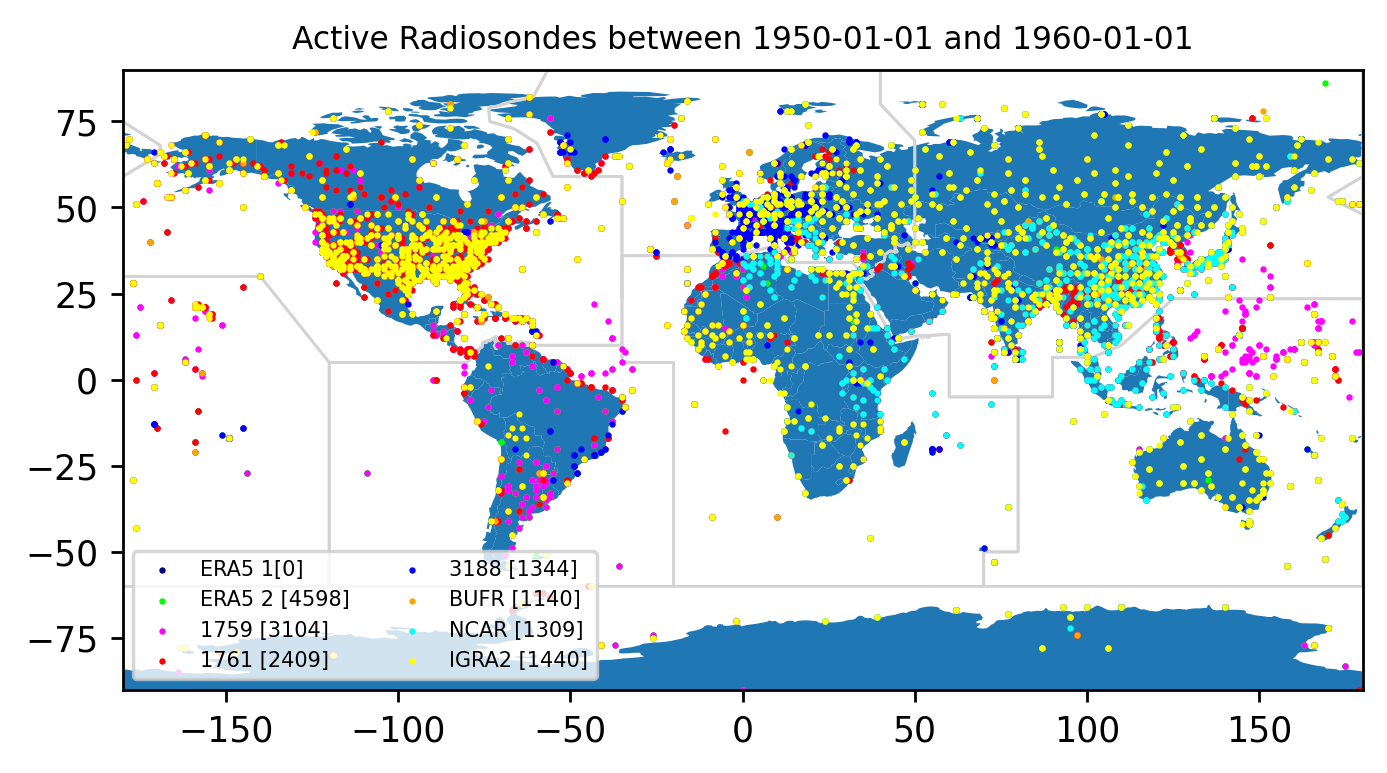
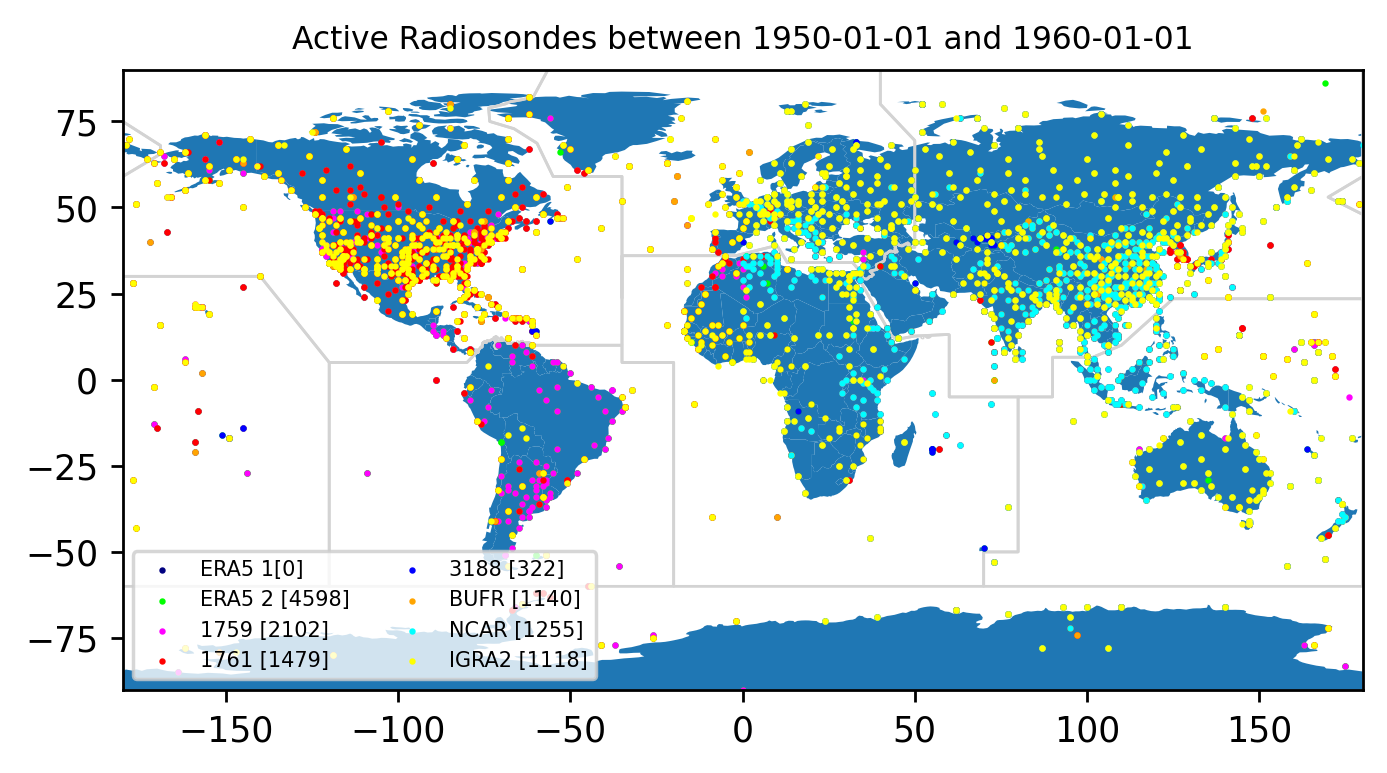
Up plots

diff --git a/CEUAS/dev_federico/world_plots/pretty_WMO_databases/pretty_WMOregions_databases.py b/CEUAS/dev_federico/world_plots/pretty_WMO_databases/pretty_WMOregions_databases.py
@@ -88,7 +88,7 @@ def make_plot_gpd(WMO, start_date = '', end_date = '' , databases = ''):
             except:
                 pass
 
-            if (start <= end_date): # checking if the station is alive in the period
+            if (start <= end_date and end >= start_date): # checking if the station is alive in the period
                 LAT.append(lat)
                 LON.append(lon)
 
